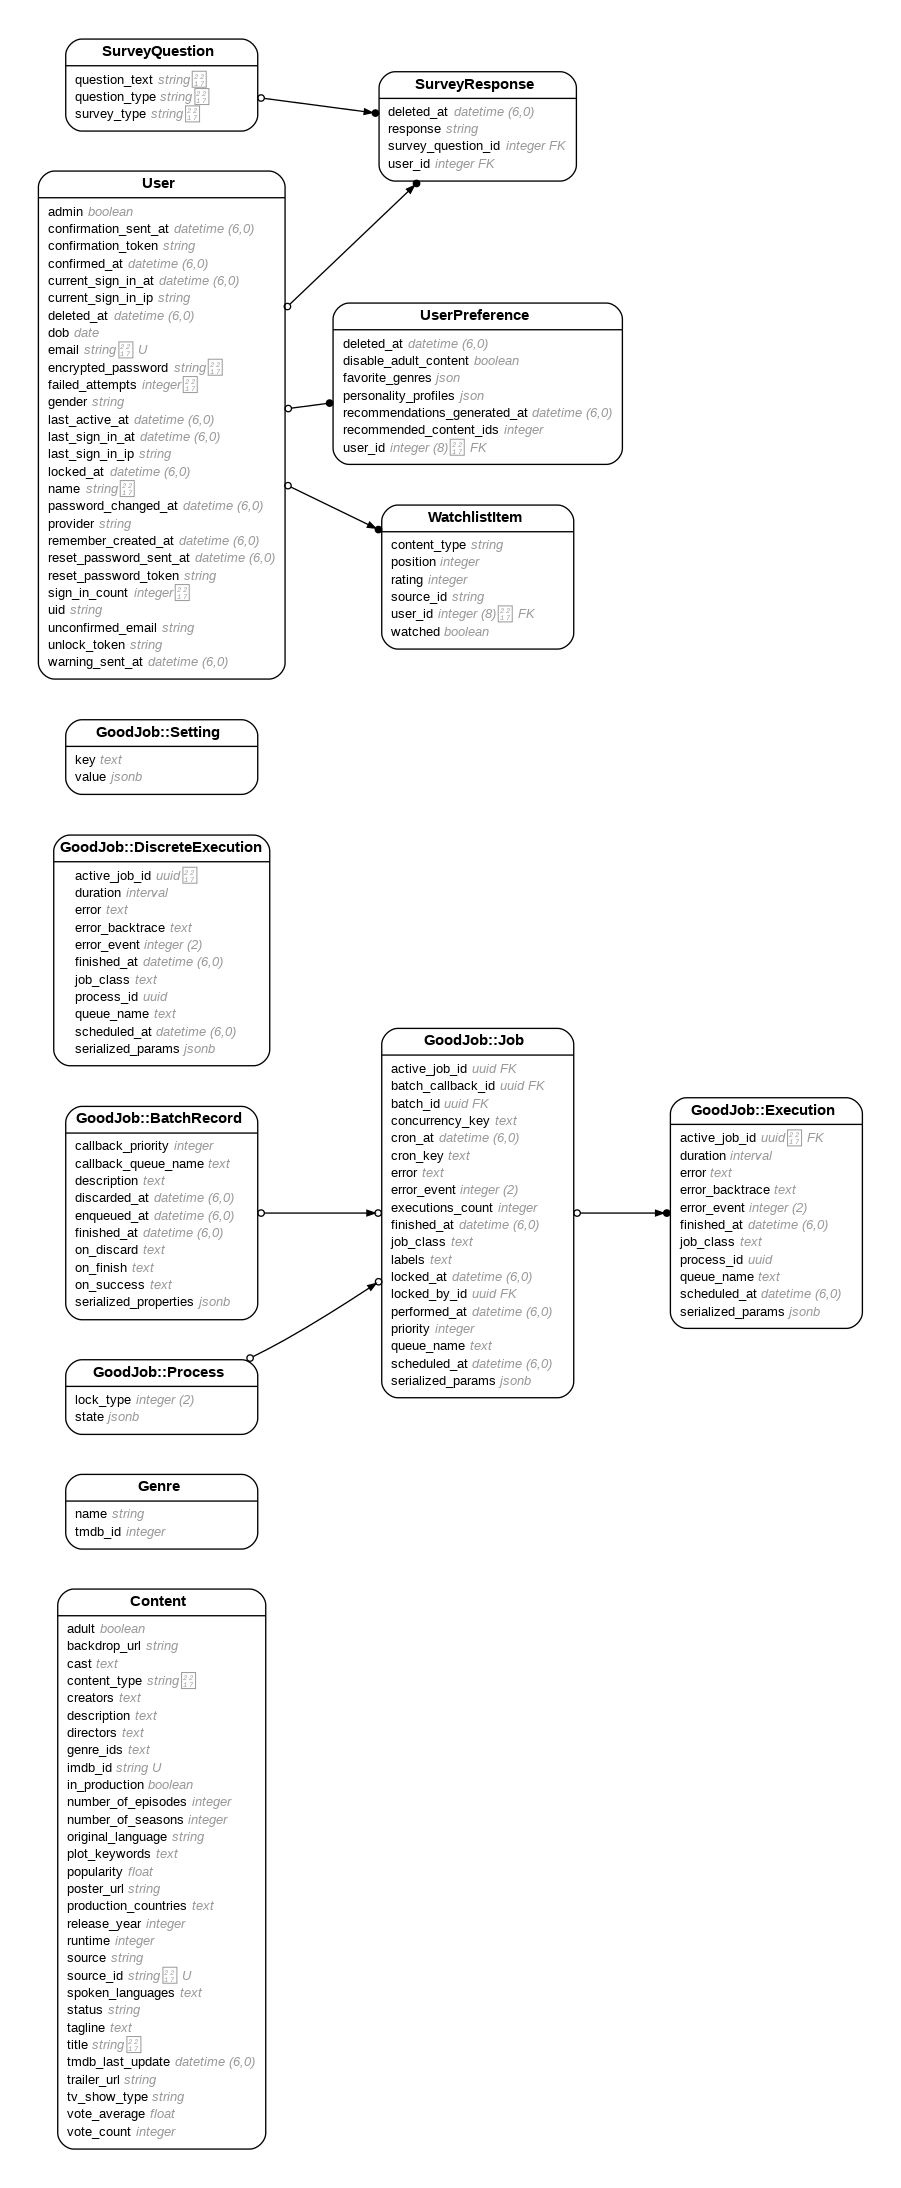
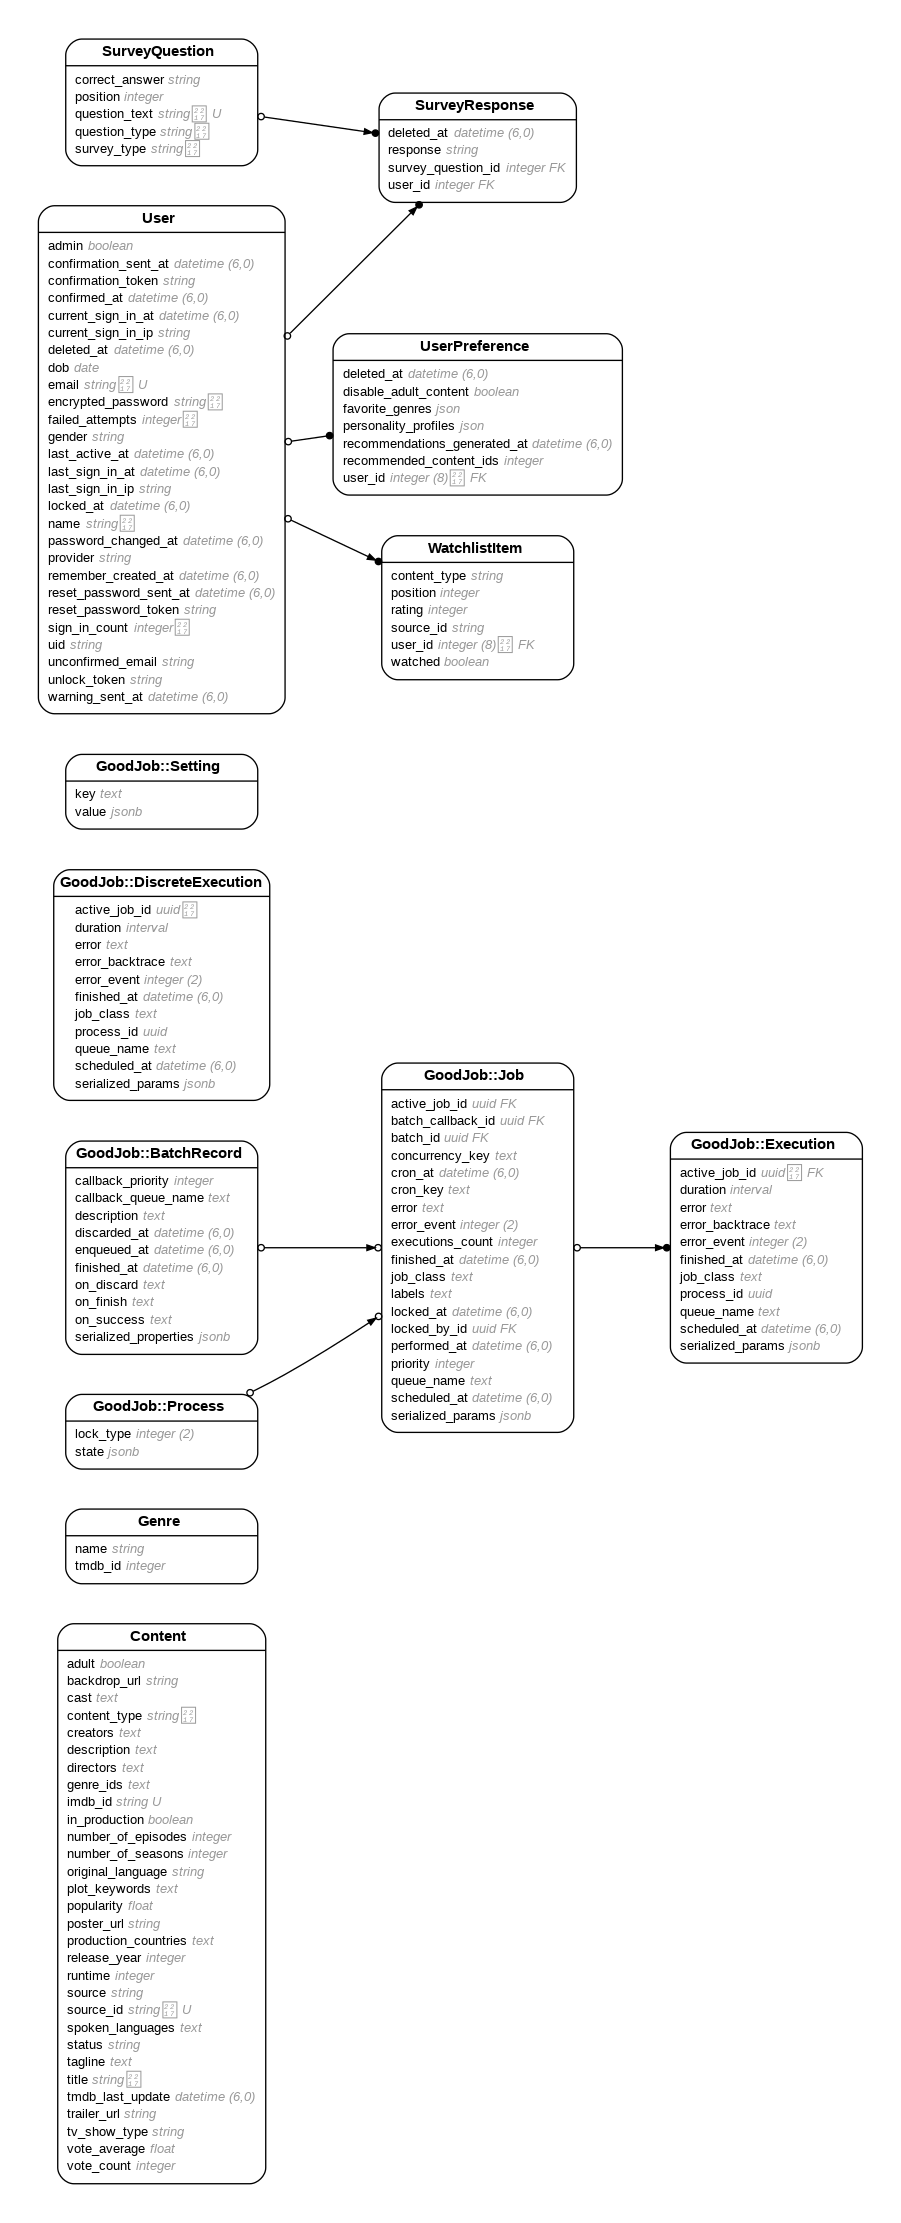
add attention check questions

diff --git a/db/seeds.rb b/db/seeds.rb
@@ -12,6 +12,12 @@
 puts "Resetting survey questions..."
 ActiveRecord::Base.connection.execute("TRUNCATE survey_questions RESTART IDENTITY")
 
+# Reset the attention check questions
+puts "Resetting attention check questions..."
+ActiveRecord::Base.connection.execute("DELETE FROM survey_questions WHERE question_type = 'attention_check'")
+# or if you want to be more thorough:
+# ActiveRecord::Base.connection.execute("DELETE FROM survey_questions WHERE question_type = 'attention_check' RETURNING id")
+
 # Helper method to create questions in batches
 def create_questions(questions)
   questions.each do |question_attrs|
@@ -162,15 +168,47 @@ create_questions(basic_survey_questions)
 puts "Creating extended survey questions..."
 create_questions(extended_survey_questions)
 
-# Create admin user in development
-if Rails.env.development?
-  User.find_or_initialize_by(email: "alex@aborovikov.com").tap do |user|
-    user.name = "Aleksei"
-    user.password = ENV['ADMIN_PASSWORD']
-    user.password_confirmation = ENV['ADMIN_PASSWORD']
-    user.admin = true
-    user.save!
-  end
+# Attention Check Questions
+attention_check_questions = [
+  { 
+    question_text: "For this attention check, please select 'Agree'",
+    question_type: "attention_check",
+    survey_type: "basic",
+    correct_answer: "Agree"
+  },
+  { 
+    question_text: "For this attention check, please select 'Disagree'",
+    question_type: "attention_check",
+    survey_type: "basic",
+    correct_answer: "Disagree"
+  },
+  { 
+    question_text: "For this attention check, please select 'Neutral'",
+    question_type: "attention_check",
+    survey_type: "basic",
+    correct_answer: "Neutral"
+  }
+]
+
+puts "Creating attention check questions..."
+attention_check_questions.each do |question_attrs|
+  SurveyQuestion.find_or_create_by!(
+    question_text: question_attrs[:question_text],
+    question_type: question_attrs[:question_type],
+    survey_type: question_attrs[:survey_type],
+    correct_answer: question_attrs[:correct_answer]
+  )
 end
+
+# Create admin user in development
+# if Rails.env.development?
+#   User.find_or_initialize_by(email: "alex@aborovikov.com").tap do |user|
+#     user.name = "Aleksei"
+#     user.password = ENV['ADMIN_PASSWORD']
+#     user.password_confirmation = ENV['ADMIN_PASSWORD']
+#     user.admin = true
+#     user.save!
+#   end
+# end
 
 puts "Seed completed successfully!"

diff --git a/app/models/survey_question.rb b/app/models/survey_question.rb
@@ -4,12 +4,14 @@
 #
 # Table name: survey_questions
 #
-#  id            :bigint           not null, primary key
-#  question_text :string
-#  question_type :string
-#  survey_type   :string
-#  created_at    :datetime         not null
-#  updated_at    :datetime         not null
+#  id             :bigint           not null, primary key
+#  correct_answer :string
+#  position       :integer
+#  question_text  :string
+#  question_type  :string
+#  survey_type    :string
+#  created_at     :datetime         not null
+#  updated_at     :datetime         not null
 #
 # Indexes
 #
@@ -60,11 +62,26 @@ class SurveyQuestion < ApplicationRecord
   # Psychological Needs
   scope :psychological, -> { where("question_type LIKE 'psych_%'") }
 
+  # Add scopes for survey types
+  scope :basic_survey, -> { where(survey_type: 'basic').order(Arel.sql('RANDOM()')) }
+  scope :extended_survey, -> { where(survey_type: 'extended').order(Arel.sql('RANDOM()')) }
+  
+  # Add scope for attention check questions
+  scope :attention_checks, -> { where(question_type: 'attention_check') }
+
   def self.ransackable_attributes(auth_object = nil)
     ["created_at", "id", "question_text", "question_type", "updated_at"]
   end
 
   def self.ransackable_associations(auth_object = nil)
     []
+  end
+
+  def attention_check?
+    question_type == 'attention_check'
+  end
+
+  def correct_attention_check_response?(response)
+    attention_check? && response == correct_answer
   end
 end

diff --git a/db/schema.rb b/db/schema.rb
@@ -10,7 +10,7 @@
 #
 # It's strongly recommended that you check this file into your version control system.
 
-ActiveRecord::Schema[7.1].define(version: 2024_11_27_171504) do
+ActiveRecord::Schema[7.1].define(version: 2025_02_12_213449) do
   # These are extensions that must be enabled in order to support this database
   enable_extension "pg_trgm"
   enable_extension "pgcrypto"
@@ -171,6 +171,8 @@ ActiveRecord::Schema[7.1].define(version: 2024_11_27_171504) do
     t.datetime "created_at", null: false
     t.datetime "updated_at", null: false
     t.string "survey_type"
+    t.string "correct_answer"
+    t.integer "position"
     t.index ["survey_type"], name: "index_survey_questions_on_survey_type"
   end
 

diff --git a/db/migrate/20250212213449_add_correct_answer_to_survey_questions.rb b/db/migrate/20250212213449_add_correct_answer_to_survey_questions.rb
@@ -1,0 +1,6 @@
+class AddCorrectAnswerToSurveyQuestions < ActiveRecord::Migration[7.1]
+  def change
+    add_column :survey_questions, :correct_answer, :string
+    add_column :survey_questions, :position, :integer
+  end
+end
